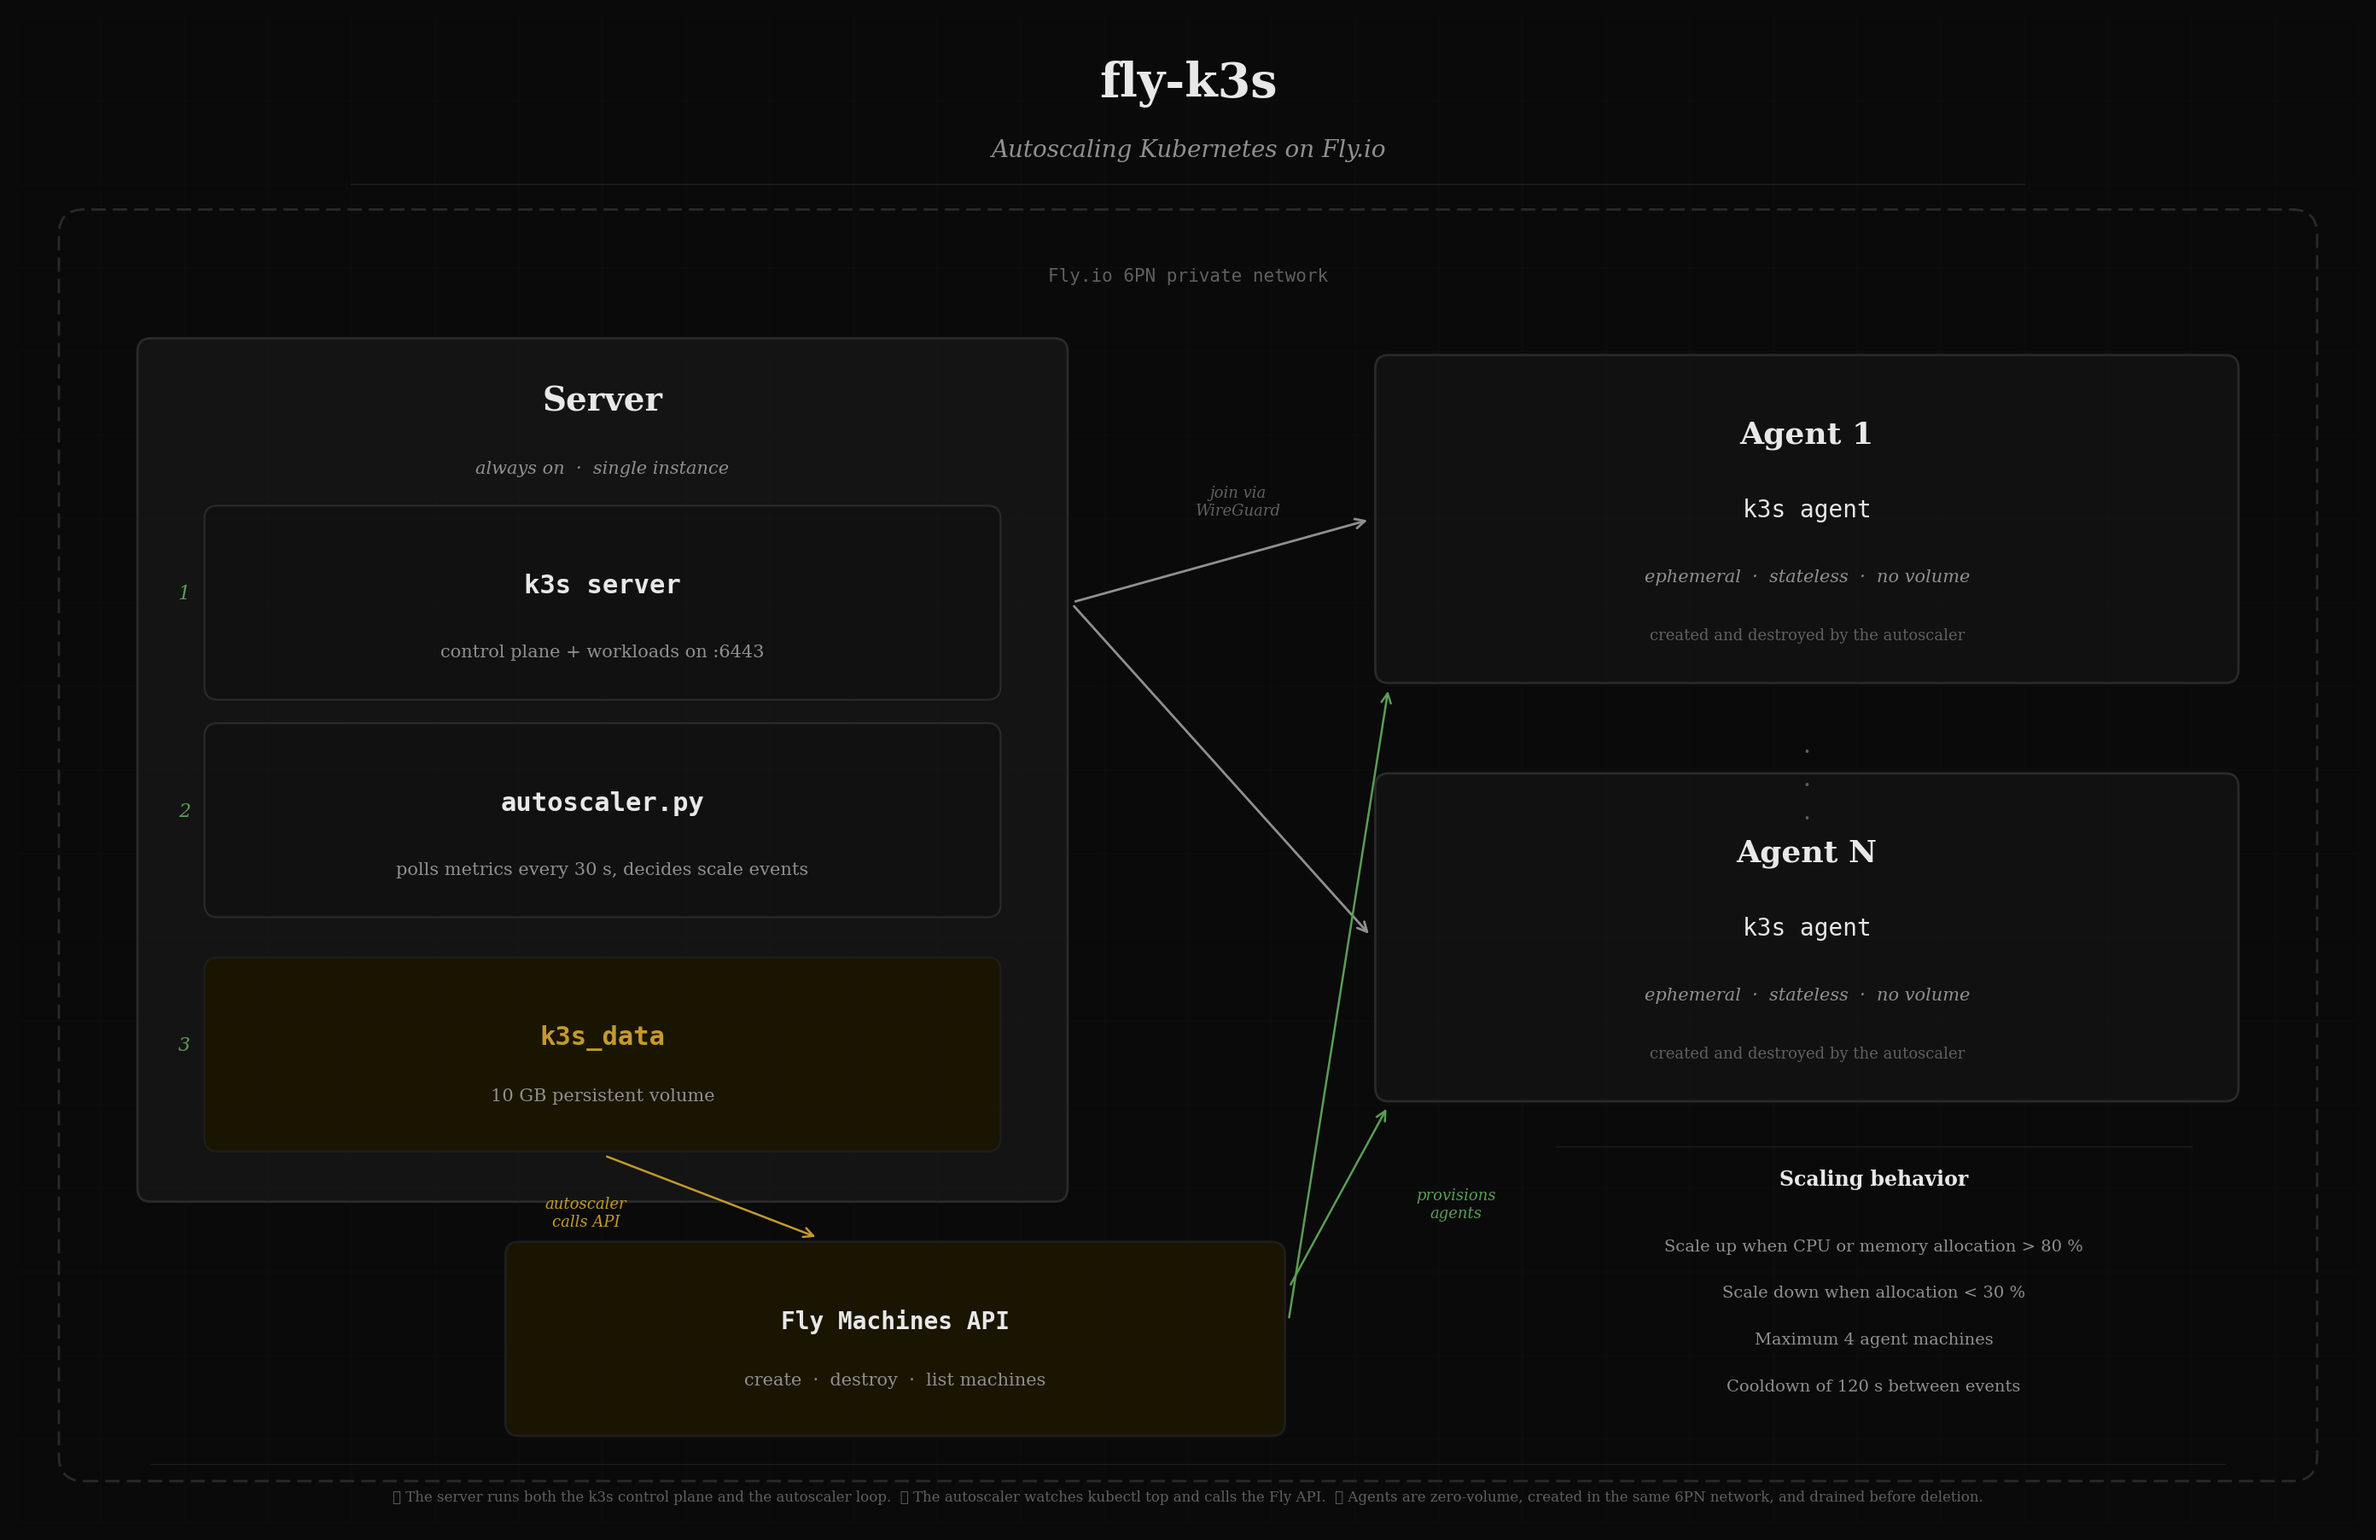
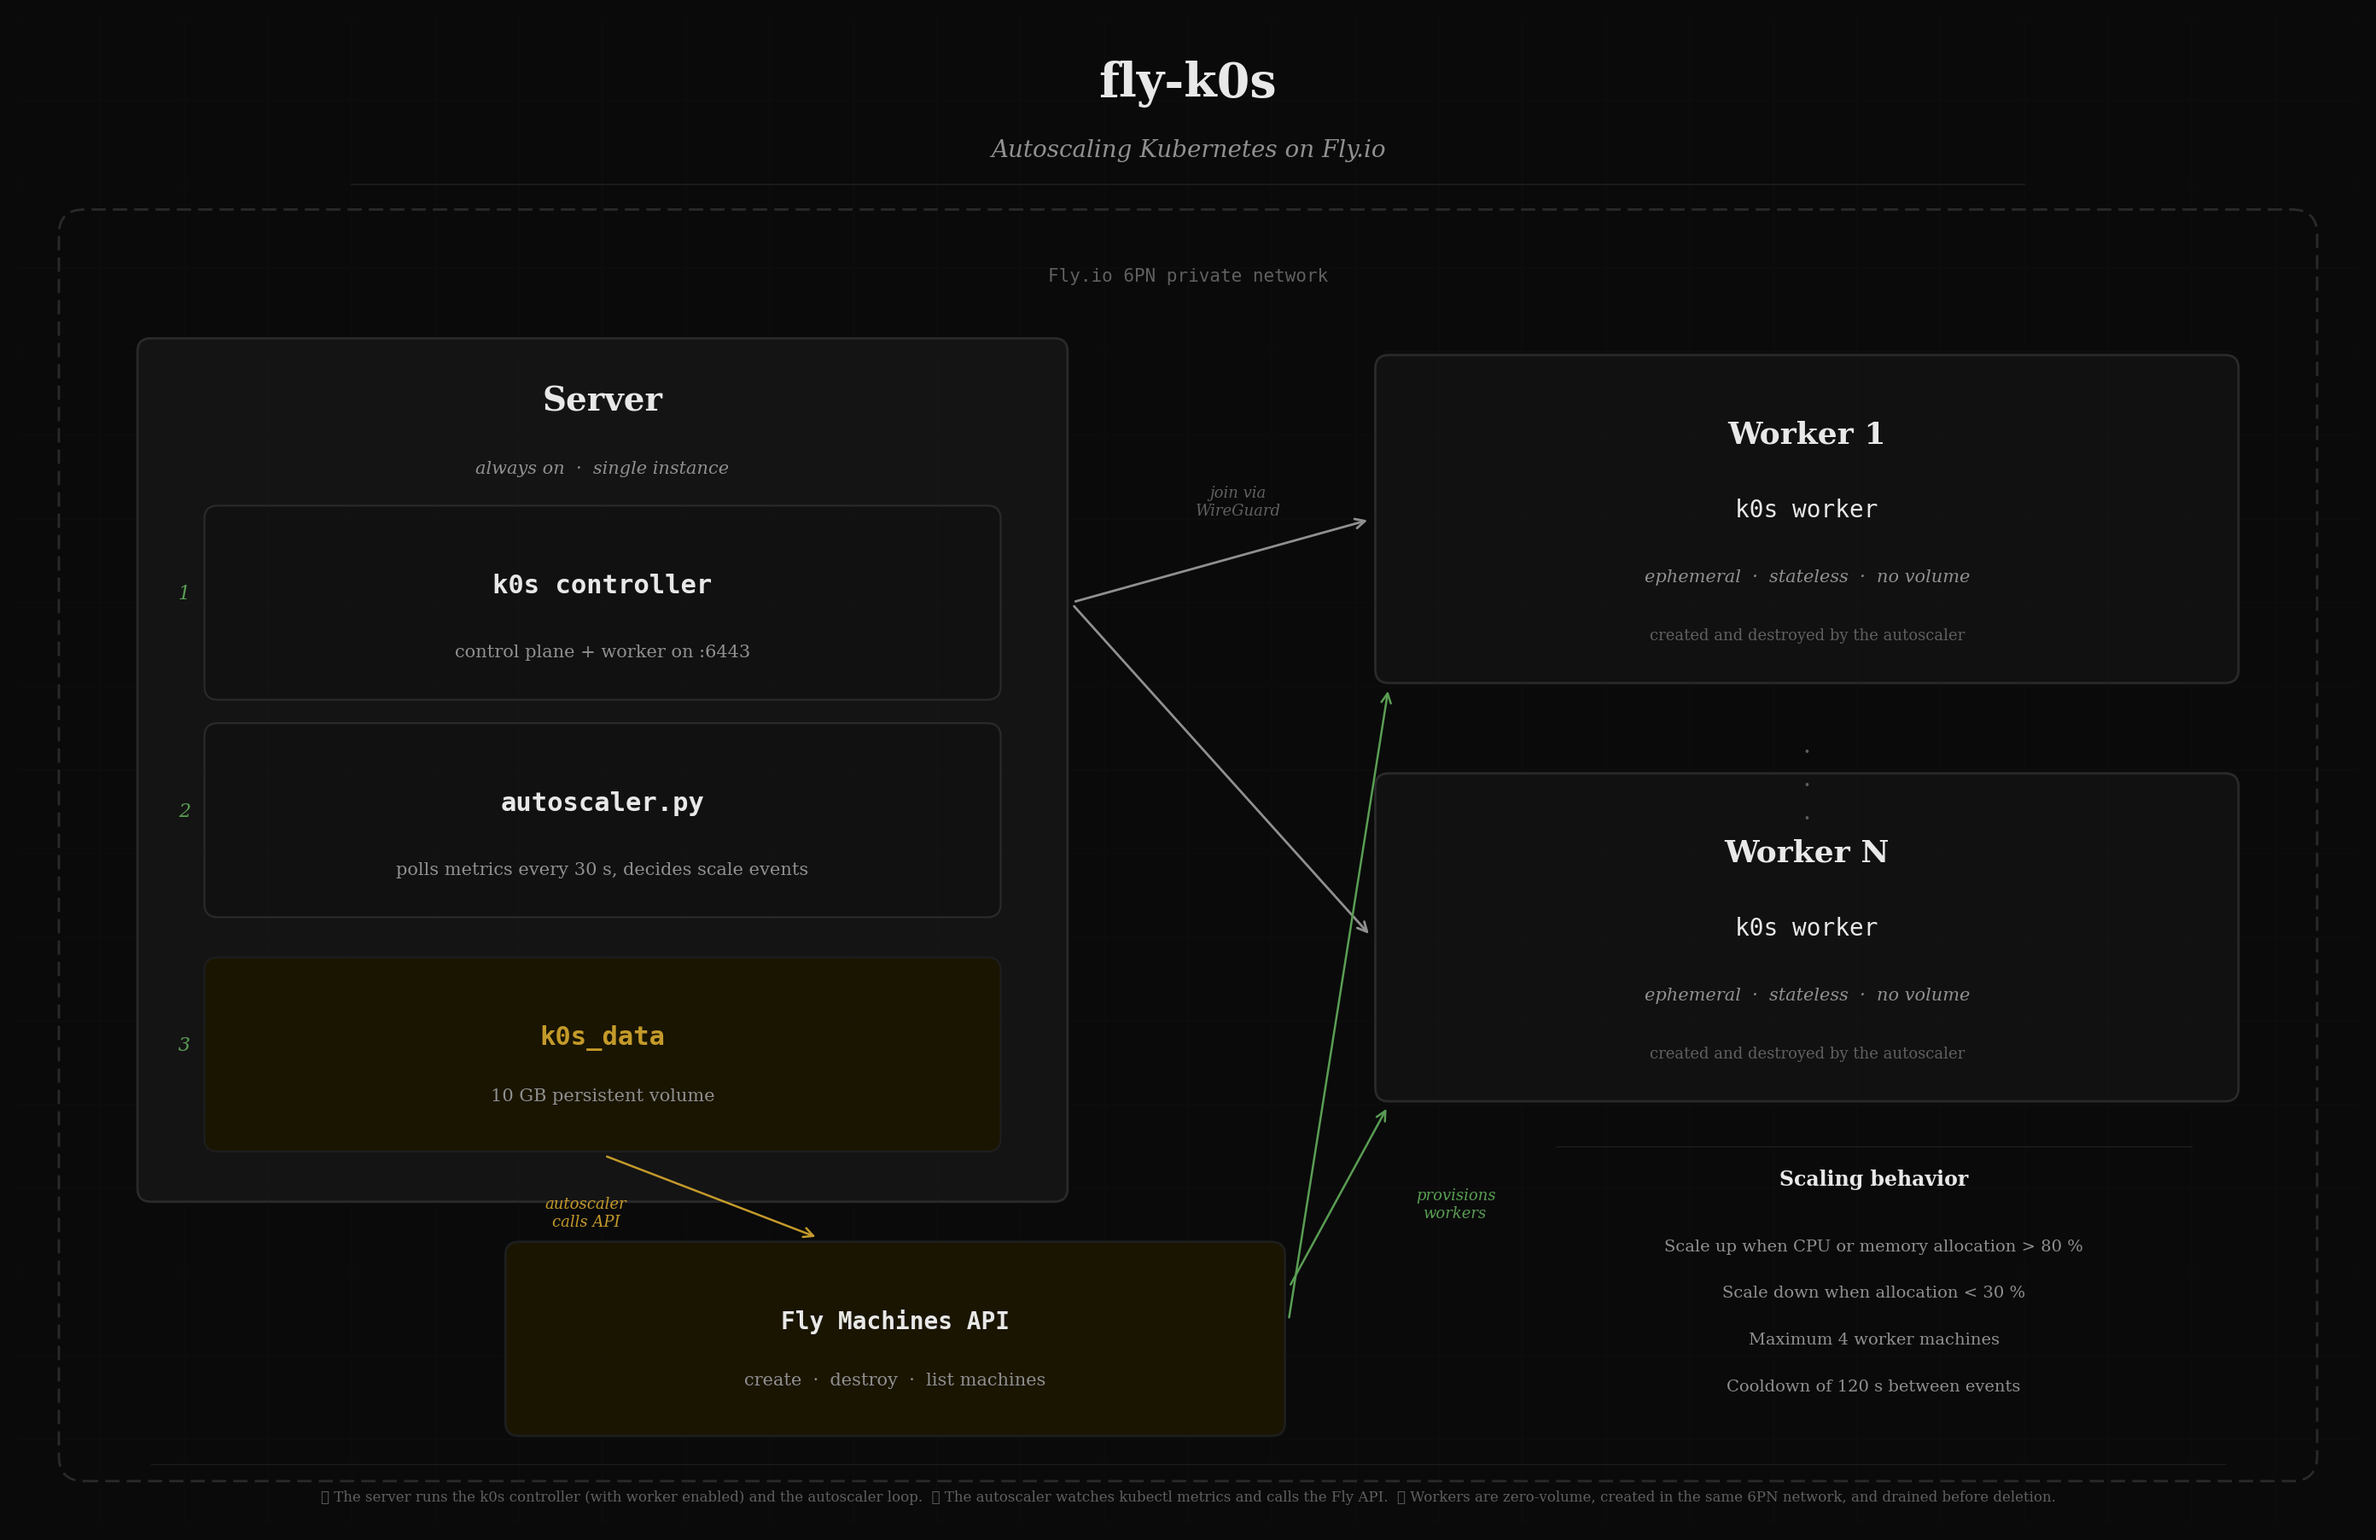
removes lingering k3s references

diff --git a/infrastructure/pulumi/cluster/dev/index.ts b/infrastructure/pulumi/cluster/dev/index.ts
@@ -2,6 +2,15 @@ import * as pulumi from "@pulumi/pulumi";
 import * as docker from "@pulumi/docker";
 import * as command from "@pulumi/command";
 import * as k8s from "@pulumi/kubernetes";
+import * as path from "path";
+
+const kubeconfigPath = path.join(process.env.HOME!, ".kube", "k0s-dev");
+
+// --- Docker Network ---
+
+const k0sNetwork = new docker.Network("k0s-network", {
+    name: "k0s",
+});
 
 // --- Docker Registry ---
 
@@ -10,72 +19,83 @@ const registryImage = new docker.RemoteImage("registry-image", {
 });
 
 export const registryContainer = new docker.Container("registry", {
-    name: "kind-registry",
+    name: "k0s-registry",
     image: registryImage.imageId,
-    ports: [
-        {
-            internal: 5000,
-            external: 5001,
-        },
-    ],
+    ports: [{
+        internal: 5000,
+        external: 5001,
+    }],
+    networksAdvanced: [{
+        name: k0sNetwork.name,
+    }],
     restart: "always",
 });
 
-// --- Kind Cluster ---
+// --- k0s Controller (with worker enabled) ---
 
-const kindConfig = `\
-kind: Cluster
-apiVersion: kind.x-k8s.io/v1alpha4
-containerdConfigPatches:
-- |-
-  [plugins."io.containerd.grpc.v1.cri".registry]
-    config_path = "/etc/containerd/certs.d"
-nodes:
-- role: control-plane
-  extraPortMappings:
-  - containerPort: 30080
-    hostPort: 80
-    protocol: TCP
-  - containerPort: 30443
-    hostPort: 443
-    protocol: TCP
-`;
+const k0sImage = new docker.RemoteImage("k0s-image", {
+    name: "docker.io/k0sproject/k0s:v1.31.3-k0s.0",
+});
 
-export const kindCluster = new command.local.Command("kind-cluster", {
-    create: `cat <<'KINDEOF' | kind create cluster --config=-
-${kindConfig}
-KINDEOF`,
-    delete: "kind delete cluster",
+export const k0sController = new docker.Container("k0s-controller", {
+    name: "k0s-controller",
+    image: k0sImage.imageId,
+    hostname: "k0s-controller",
+    privileged: true,
+    cgroupnsMode: "host",
+    command: ["k0s", "controller", "--enable-worker", "--no-taints"],
+    ports: [
+        { internal: 6443, external: 6443 },
+        { internal: 30080, external: 80 },
+        { internal: 30443, external: 443 },
+    ],
+    tmpfs: {
+        "/run": "",
+        "/var/run": "",
+        "/tmp": "",
+    },
+    uploads: [
+        {
+            content: `[plugins."io.containerd.grpc.v1.cri".registry]
+  config_path = "/etc/k0s/containerd/certs.d"
+`,
+            file: "/etc/k0s/containerd.d/registry.toml",
+        },
+        {
+            content: `server = "http://k0s-registry:5000"
+
+[host."http://k0s-registry:5000"]
+  capabilities = ["pull", "resolve"]
+`,
+            file: "/etc/k0s/containerd/certs.d/localhost:5001/hosts.toml",
+        },
+    ],
+    networksAdvanced: [{
+        name: k0sNetwork.name,
+    }],
+    restart: "unless-stopped",
 }, { dependsOn: [registryContainer] });
 
-// --- Configure registry on Kind nodes ---
+// --- Extract Kubeconfig ---
 
-export const registryConfig = new command.local.Command("registry-config", {
-    create: pulumi.interpolate`
-REGISTRY_DIR="/etc/containerd/certs.d/localhost:5001"
-for node in $(kind get nodes); do
-    docker exec "$node" mkdir -p "$REGISTRY_DIR"
-    docker exec "$node" sh -c "cat > $REGISTRY_DIR/hosts.toml" <<TOML
-[host."http://kind-registry:5000"]
-TOML
-done
-`,
-    delete: "echo 'registry config removed with cluster'",
-}, { dependsOn: [kindCluster, registryContainer] });
+export const extractKubeconfig = new command.local.Command("extract-kubeconfig", {
+    create: [
+        `for i in $(seq 1 120); do docker exec k0s-controller k0s kubectl --data-dir /var/lib/k0s get nodes >/dev/null 2>&1 && break; sleep 1; done`,
+        `docker exec k0s-controller k0s kubeconfig admin --data-dir /var/lib/k0s | sed 's|server: https://.*:6443|server: https://127.0.0.1:6443|' > "${kubeconfigPath}"`,
+        `chmod 600 "${kubeconfigPath}"`,
+        `OLD_CTX=$(KUBECONFIG="${kubeconfigPath}" kubectl config current-context) && KUBECONFIG="${kubeconfigPath}" kubectl config rename-context "$OLD_CTX" k0s-dev`,
+    ].join(" && "),
+    delete: `rm -f "${kubeconfigPath}"`,
+}, { dependsOn: [k0sController] });
 
-// --- Connect registry to Kind network ---
+// --- K8s Provider ---
 
-export const networkConnection = new command.local.Command("registry-network", {
-    create: 'docker network connect "kind" "kind-registry" || true',
-    delete: 'docker network disconnect "kind" "kind-registry" || true',
-}, { dependsOn: [kindCluster, registryContainer] });
+const k8sProvider = new k8s.Provider("k0s-provider", {
+    kubeconfig: kubeconfigPath,
+    context: "k0s-dev",
+}, { dependsOn: [extractKubeconfig] });
 
 // --- K8s ConfigMap documenting the local registry ---
-
-const k8sProvider = new k8s.Provider("kind-provider", {
-    context: "kind-kind",
-    kubeconfig: pulumi.interpolate`${process.env.HOME}/.kube/config`,
-}, { dependsOn: [kindCluster] });
 
 export const registryConfigMap = new k8s.core.v1.ConfigMap("local-registry-hosting", {
     metadata: {
@@ -85,12 +105,12 @@ export const registryConfigMap = new k8s.core.v1.ConfigMap("local-registry-hosti
     data: {
         "localRegistryHosting.v1": JSON.stringify({
             host: "localhost:5001",
-            help: "https://kind.sigs.k8s.io/docs/user/local-registry/",
         }),
     },
-}, { provider: k8sProvider, dependsOn: [registryConfig, networkConnection] });
+}, { provider: k8sProvider });
 
 // --- Exports ---
 
 export const registryEndpoint = "localhost:5001";
-export const clusterName = "kind";
+export const clusterName = "k0s-dev";
+export const kubeconfig = kubeconfigPath;

diff --git a/infrastructure/pulumi/cluster/dev/index.test.ts b/infrastructure/pulumi/cluster/dev/index.test.ts
@@ -27,19 +27,22 @@ describe("dev cluster", () => {
         expect(ports![0].internal).toBe(5000);
     });
 
-    test("registry container is named kind-registry", async () => {
+    test("registry container is named k0s-registry", async () => {
         const name = await promiseOf(infra.registryContainer.name);
-        expect(name).toBe("kind-registry");
+        expect(name).toBe("k0s-registry");
     });
 
-    test("kind cluster create command includes kind create cluster", async () => {
-        const create = await promiseOf(infra.kindCluster.create);
-        expect(create).toContain("kind create cluster");
+    test("k0s controller is privileged", async () => {
+        const privileged = await promiseOf(infra.k0sController.privileged);
+        expect(privileged).toBe(true);
     });
 
-    test("kind cluster delete command includes kind delete cluster", async () => {
-        const del = await promiseOf(infra.kindCluster.delete);
-        expect(del).toContain("kind delete cluster");
+    test("k0s controller maps API port 6443", async () => {
+        const ports = await promiseOf(infra.k0sController.ports);
+        expect(ports).toBeDefined();
+        const apiPort = ports!.find(p => p.internal === 6443);
+        expect(apiPort).toBeDefined();
+        expect(apiPort!.external).toBe(6443);
     });
 
     test("configmap is in kube-public namespace", async () => {

diff --git a/infrastructure/pulumi/platform/components/index.ts b/infrastructure/pulumi/platform/components/index.ts
@@ -5,8 +5,8 @@ import * as command from "@pulumi/command/local";
 // ---------------------------------------------------------------------------
 // Configuration from environment
 // ---------------------------------------------------------------------------
-const kubeConfigPath = process.env.KUBECONFIG || "~/.kube/config";
-const kubeContext = process.env.KUBE_CONTEXT || "kind-kind";
+const kubeConfigPath = process.env.KUBECONFIG || `${process.env.HOME}/.kube/k0s-dev`;
+const kubeContext = process.env.KUBE_CONTEXT || "k0s-dev";
 const zitadelDomain = process.env.ZITADEL_DOMAIN || "machine.127.0.0.1.sslip.io";
 
 // ---------------------------------------------------------------------------

diff --git a/README.md b/README.md
@@ -17,7 +17,7 @@ Autoscaling k0s cluster on Fly.io with a GitOps-ready repo structure. Starts wit
 │   │   │   ├── components/     # Helm: cert-manager, Traefik, PostgreSQL, Zitadel
 │   │   │   └── configurations/ # Zitadel orgs, projects, OIDC apps, users
 │   │   ├── cluster/
-│   │   │   └── dev/            # Local Kind cluster + Docker registry
+│   │   │   └── dev/            # Local k0s-in-Docker cluster + registry
 │   │   └── modules/            # Reusable Pulumi components
 │   └── scripts/                # Deploy, destroy, setup scripts
 ├── bootstrap/                  # Machine/bootstrap artifacts
@@ -71,13 +71,13 @@ export KUBECONFIG=./kubeconfig.yaml
 kubectl get nodes
 ```
 
-### Local Development (Kind)
+### Local Development (k0s-in-Docker)
 
 ![Dev Setup](docs/dev-setup.png)
 
 ```bash
 bun run setup     # install all dependencies
-bun run dev       # deploy Kind cluster + platform components + Zitadel config
+bun run dev       # deploy k0s cluster + platform components + Zitadel config
 bun run dev:destroy
 ```
 
